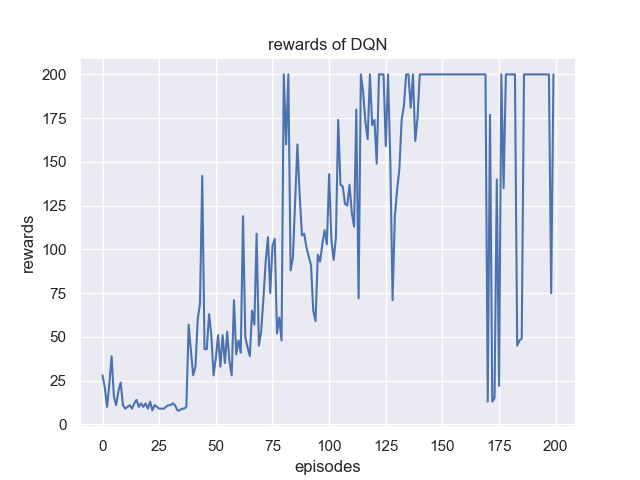
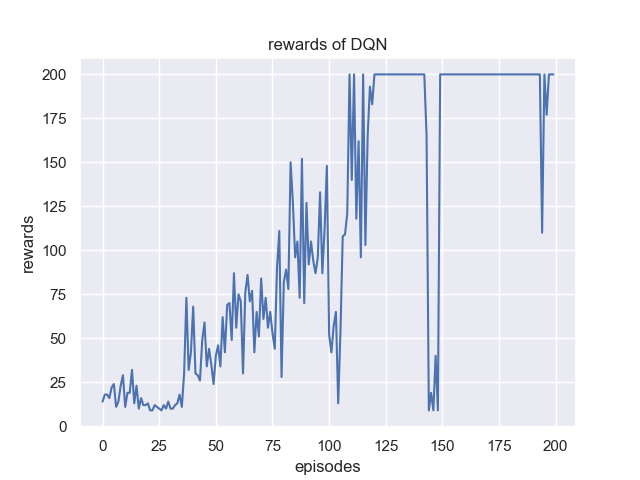
优化DQN以及注释

diff --git a/02-DQN_cnn/dqn.py b/02-DQN_cnn/dqn.py
@@ -9,10 +9,11 @@ from model import CNN
 
 class DQN:
     def __init__(self, screen_height=0, screen_width=0, n_actions=0, gamma=0.999, epsilon_start=0.9, epsilon_end=0.05, epsilon_decay=200, memory_capacity=10000, batch_size=128, device="cpu"):
-        self.actions_count = 0
-        self.n_actions = n_actions
-        self.device = device
+        self.actions_count = 0 
+        self.n_actions = n_actions  # 总的动作个数
+        self.device = device  # 设备，cpu或gpu等
         self.gamma = gamma
+        # e-greedy策略相关参数
         self.epsilon = 0
         self.epsilon_start = epsilon_start
         self.epsilon_end = epsilon_end
@@ -22,32 +23,30 @@ class DQN:
                               n_actions).to(self.device)
         self.target_net = CNN(screen_height, screen_width,
                               n_actions).to(self.device)
-        self.target_net.load_state_dict(self.policy_net.state_dict())
+        self.target_net.load_state_dict(self.policy_net.state_dict()) # target_net的初始模型参数完全复制policy_net
         self.target_net.eval()  # 不启用 BatchNormalization 和 Dropout
-        self.optimizer = optim.RMSprop(self.policy_net.parameters())
+        self.optimizer = optim.RMSprop(self.policy_net.parameters()) # 可查parameters()与state_dict()的区别，前者require_grad=True
         self.loss = 0
         self.memory = ReplayBuffer(memory_capacity)
         
 
     def select_action(self, state):
-        '''choose_action [summary]
+        '''选择动作
         Args:
-            state [torch tensor]: [description]
+            state [array]: [description]
         Returns:
-            actions [torch tensor]: [description]
+            action [array]: [description]
         '''
-        sample = random.random()
         self.epsilon = self.epsilon_end + (self.epsilon_start - self.epsilon_end) * \
             math.exp(-1. * self.actions_count / self.epsilon_decay)
         self.actions_count += 1
-        if sample > self.epsilon:
+        if random.random() > self.epsilon:   
             with torch.no_grad():
-                # t.max(1) will return largest column value of each row.
-                # second column on max result is index of where max element was
-                # found, so we pick action with the larger expected reward.
-                
                 q_value = self.policy_net(state) # q_value比如tensor([[-0.2522,  0.3887]])
-                action = q_value.max(1)[1].view(1, 1)  # q_value最大对应的下标，注意该action是个张量，如tensor([1])
+                # tensor.max(1)返回每行的最大值以及对应的下标，
+                # 如torch.return_types.max(values=tensor([10.3587]),indices=tensor([0]))
+                # 所以tensor.max(1)[1]返回最大值对应的下标，即action
+                action = q_value.max(1)[1].view(1, 1)  # 注意这里action是个张量，如tensor([1])
                 return action
         else:
             return torch.tensor([[random.randrange(self.n_actions)]], device=self.device, dtype=torch.long)

diff --git a/01-DQN/main.py b/01-DQN/main.py
@@ -5,7 +5,7 @@
 @Email: johnjim0816@gmail.com
 @Date: 2020-06-12 00:48:57
 @LastEditor: John
-LastEditTime: 2020-08-19 16:18:54
+LastEditTime: 2020-08-20 17:35:33
 @Discription: 
 @Environment: python 3.7.7
 '''
@@ -23,8 +23,8 @@ def get_args():
                         type=float)  # q-learning中的gamma
     parser.add_argument("--epsilon_start", default=0.95,
                         type=float)  # 基于贪心选择action对应的参数epsilon
-    parser.add_argument("--epsilon_end", default=0.01, type=float)
-    parser.add_argument("--epsilon_decay", default=200, type=float)
+    parser.add_argument("--epsilon_end", default=0.05, type=float)
+    parser.add_argument("--epsilon_decay", default=500, type=float)
     parser.add_argument("--policy_lr", default=0.01, type=float)
     parser.add_argument("--memory_capacity", default=1000,
                         type=int, help="capacity of Replay Memory") 
@@ -53,10 +53,11 @@ if __name__ == "__main__":
                 epsilon_end=cfg.epsilon_end, epsilon_decay=cfg.epsilon_decay, policy_lr=cfg.policy_lr, memory_capacity=cfg.memory_capacity, batch_size=cfg.batch_size)
     rewards = []
     moving_average_rewards = []
+    ep_steps = []
     for i_episode in range(1, cfg.max_episodes+1):
         state = env.reset() # reset环境状态
         ep_reward = 0
-        for t in range(1, cfg.max_steps+1):
+        for i_step in range(1, cfg.max_steps+1):
             action = agent.select_action(state) # 根据当前环境state选择action
             next_state, reward, done, _ = env.step(action) # 更新环境参数
             ep_reward += reward
@@ -65,12 +66,12 @@ if __name__ == "__main__":
             agent.update() # 每步更新网络
             if done:
                 break
-
         # 更新target network，复制DQN中的所有weights and biases
         if i_episode % cfg.target_update == 0:
             agent.target_net.load_state_dict(agent.policy_net.state_dict())
         print('Episode:', i_episode, ' Reward: %i' %
-              int(ep_reward), 'Explore: %.2f' % agent.epsilon)
+              int(ep_reward), 'n_steps:', i_step, 'done: ', done,' Explore: %.2f' % agent.epsilon)
+        ep_steps.append(i_step)
         rewards.append(ep_reward)
         # 计算滑动窗口的reward
         if i_episode == 1:
@@ -82,10 +83,13 @@ if __name__ == "__main__":
     import os
     import numpy as np
     output_path = os.path.dirname(__file__)+"/result/"
+    # 检测是否存在文件夹
     if not os.path.exists(output_path):
         os.mkdir(output_path)
     np.save(output_path+"rewards.npy", rewards)
     np.save(output_path+"moving_average_rewards.npy", moving_average_rewards)
+    np.save(output_path+"steps.npy", ep_steps)
     print('Complete！')
     plot(rewards)
     plot(moving_average_rewards, ylabel="moving_average_rewards")
+    plot(ep_steps, ylabel="steps_of_each_episode")

diff --git a/01-DQN/dqn.py b/01-DQN/dqn.py
@@ -5,7 +5,7 @@
 @Email: johnjim0816@gmail.com
 @Date: 2020-06-12 00:50:49
 @LastEditor: John
-LastEditTime: 2020-08-19 16:53:46
+LastEditTime: 2020-08-20 11:59:15
 @Discription: 
 @Environment: python 3.7.7
 '''
@@ -58,12 +58,16 @@ class DQN:
         self.actions_count += 1
         if random.random() > self.epsilon:
             with torch.no_grad():
-                # 先转为张量便于丢给神经网络,state元素数据原本为float64；注意state=torch.tensor(state).unsqueeze(0)跟state=torch.tensor([state])等价
+                # 先转为张量便于丢给神经网络,state元素数据原本为float64
+                # 注意state=torch.tensor(state).unsqueeze(0)跟state=torch.tensor([state])等价
                 state = torch.tensor(
                     [state], device=self.device, dtype=torch.float32)
                 # 如tensor([[-0.0798, -0.0079]], grad_fn=<AddmmBackward>)
                 q_value = self.policy_net(state)
-                action = q_value.max(1)[1].item()  # 选择q值最大的对应action
+                # tensor.max(1)返回每行的最大值以及对应的下标，
+                # 如torch.return_types.max(values=tensor([10.3587]),indices=tensor([0]))
+                # 所以tensor.max(1)[1]返回最大值对应的下标，即action
+                action = q_value.max(1)[1].item()  
         else:
             action = random.randrange(self.n_actions)
         return action

diff --git a/test.py b/test.py
@@ -1,3 +1,38 @@
-from itertools import count
-for i in count():
-    print(i)
+#!/usr/bin/env python
+# coding=utf-8
+'''
+Author: John
+Email: johnjim0816@gmail.com
+Date: 2020-06-11 09:33:10
+LastEditor: John
+LastEditTime: 2020-08-20 11:54:06
+Discription: 
+Environment: 
+'''
+#!/usr/bin/env python3
+# -*- coding: utf-8 -*-
+# @Time    : 2019/1/11 19:02
+# @Author  : Arrow and Bullet
+# @FileName: min_max.py
+# @Software: PyCharm
+# @Blog    ：https://blog.csdn.net/qq_41800366
+
+from numpy import array  # 从numpy中引入array，为创建矩阵做准备
+
+
+A = array([[1, 2, 3],  # 创建一个4行3列的矩阵
+          [4, 5, 6],
+          [7, 8, 9],
+          [10, 11, 12]])
+
+B = A.min(0)  # 返回A每一列最小值组成的一维数组；
+print(B)  # 结果 ：[1 2 3]
+
+B = A.min(1)  # 返回A每一行最小值组成的一维数组；
+print(B)  # 结果 ：[ 1  4  7 10]
+
+B = A.max(0)  # 返回A每一列最大值组成的一维数组；
+print(B)  # 结果 ：[10 11 12]
+
+B = A.max(1)  # 返回A每一行最大值组成的一维数组；
+print(B)  # 结果 ：[ 3  6  9 12]

diff --git a/DDPG/main.py b/DDPG/main.py
@@ -5,7 +5,7 @@
 @Email: johnjim0816@gmail.com
 @Date: 2020-06-11 20:58:21
 @LastEditor: John
-@LastEditTime: 2020-07-20 23:01:02
+LastEditTime: 2020-08-20 12:02:17
 @Discription: 
 @Environment: python 3.7.7
 '''
@@ -68,9 +68,8 @@ if __name__ == "__main__":
             state = next_state
             if done:
                 break
-        print('Episode:', i_episode, ' Reward: %i' % int(ep_reward),)
+        print('Episode:', i_episode, ' Reward: %i' % int(ep_reward),'n_steps:', i_step)
         rewards.append(ep_reward)
-        #
         if i_episode == 1:
             moving_average_rewards.append(ep_reward)
         else:

diff --git a/01-DQN/plot.py b/01-DQN/plot.py
@@ -5,7 +5,7 @@
 @Email: johnjim0816@gmail.com
 @Date: 2020-06-11 16:30:09
 @LastEditor: John
-LastEditTime: 2020-08-19 16:11:19
+LastEditTime: 2020-08-20 16:34:34
 @Discription: 
 @Environment: python 3.7.7
 '''
@@ -20,7 +20,7 @@ def plot(item,ylabel='rewards'):
     plt.figure()
     plt.plot(np.arange(len(item)), item)
     plt.title(ylabel+' of DQN') 
-    plt.ylabel('rewards')
+    plt.ylabel(ylabel)
     plt.xlabel('episodes')
     plt.savefig(os.path.dirname(__file__)+"/result/"+ylabel+".png")
     plt.show()
